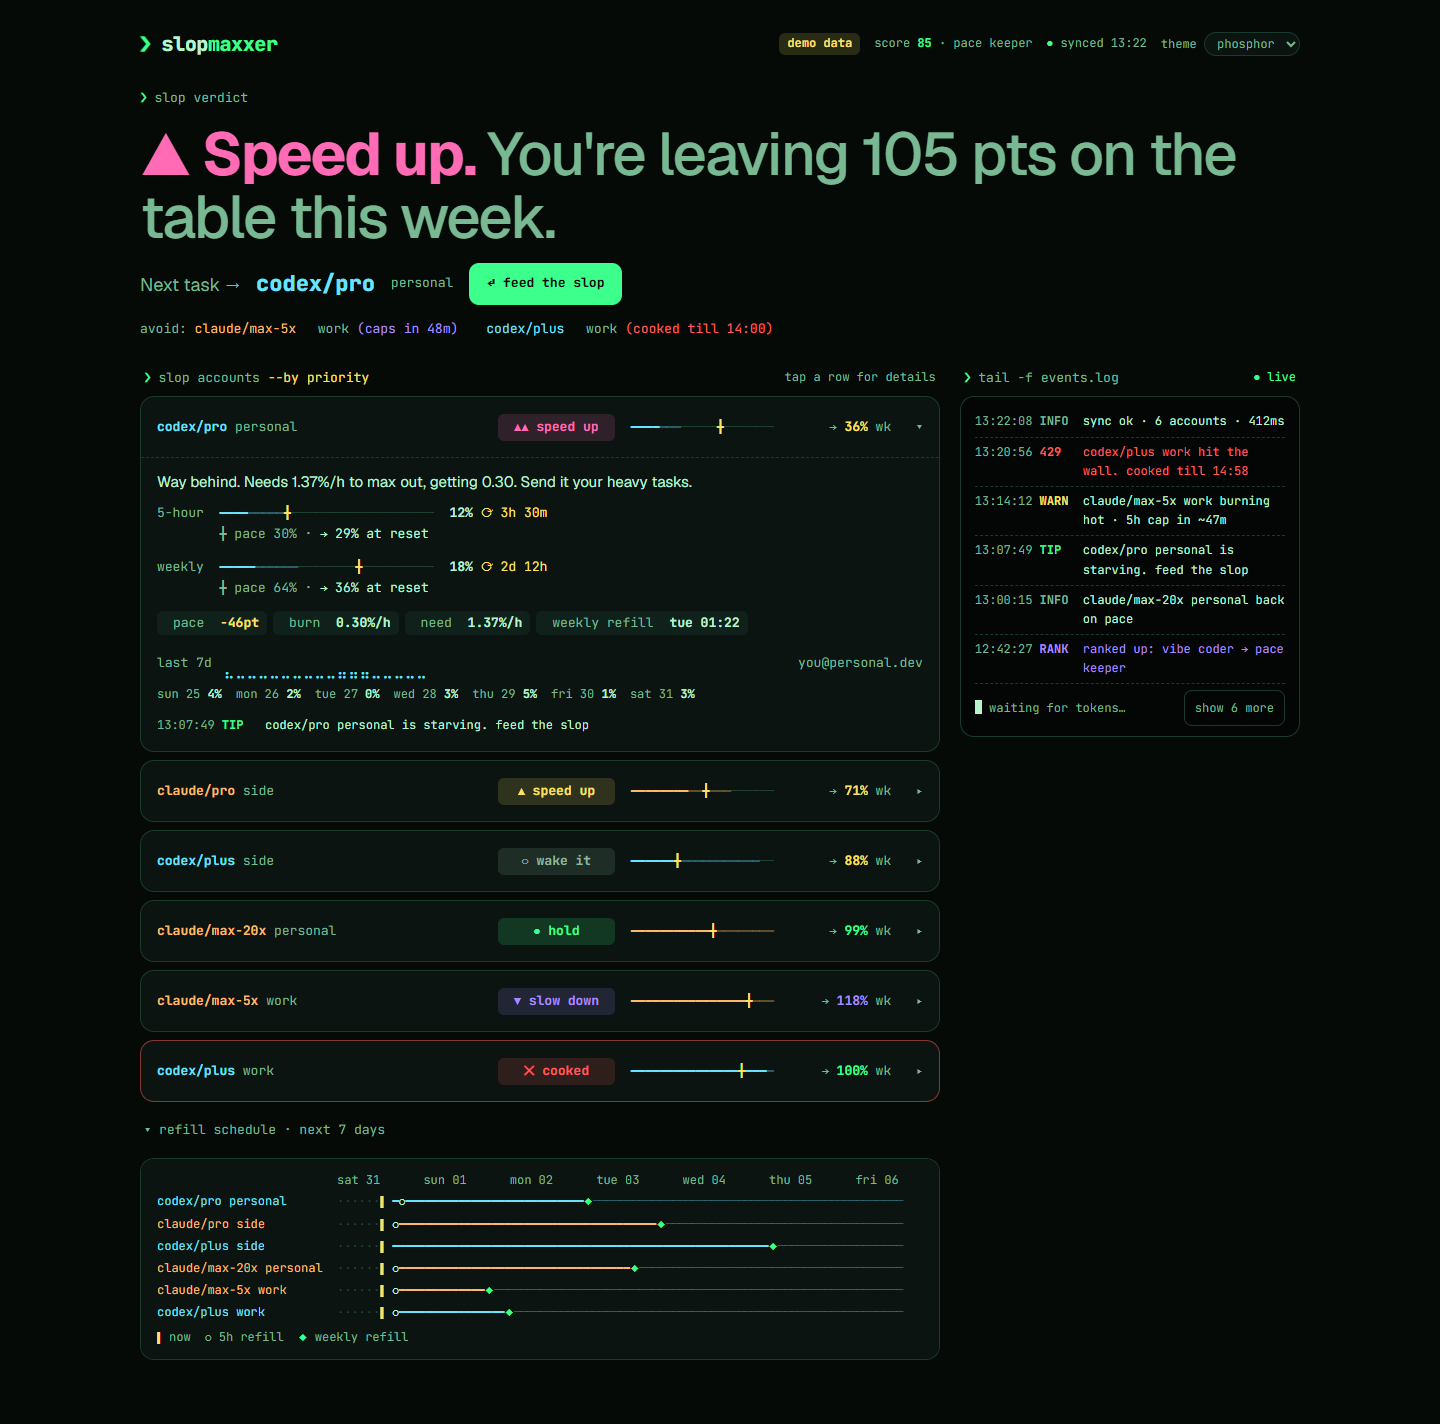
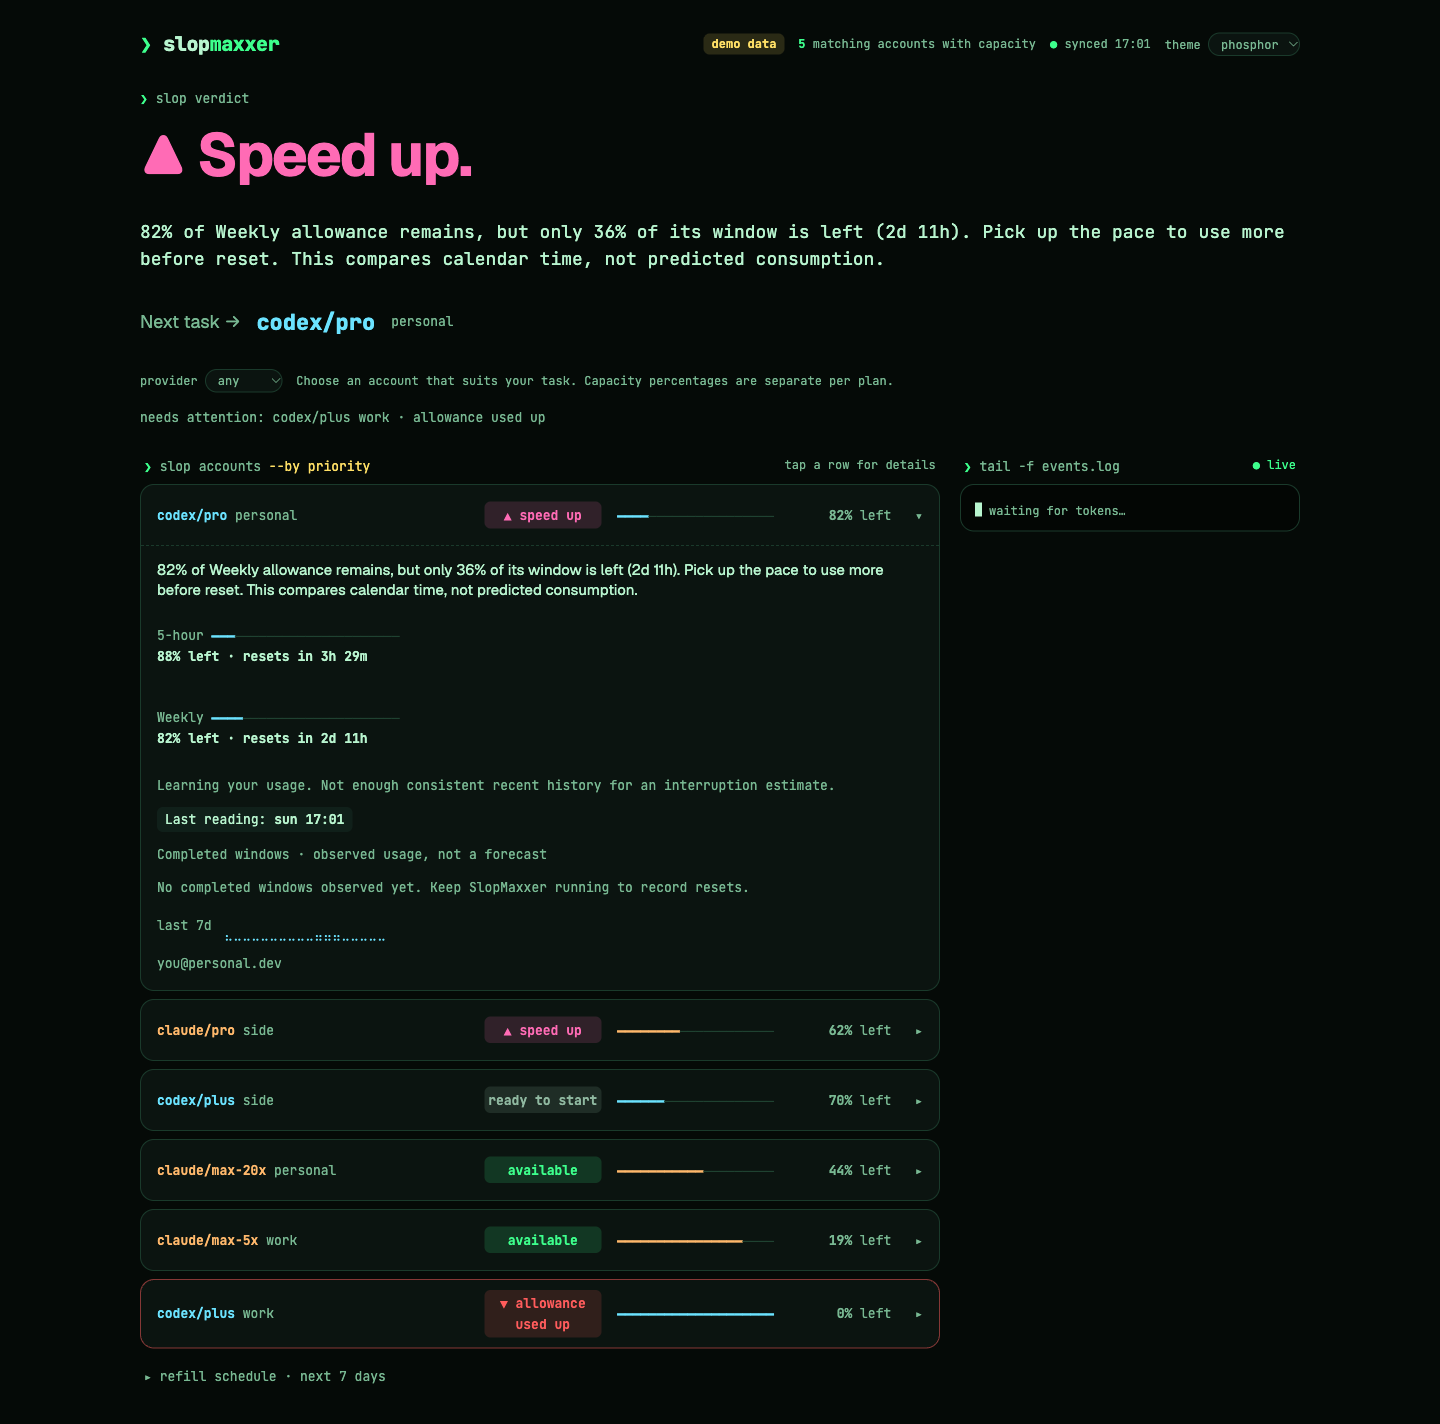
fix(dashboard): quieter meters for screen readers, one learning line
Screen readers read the meter glyphs ("━━━━────") as part of each
account row's button name; they are now aria-hidden and the "% left"
text carries the meaning. The expanded account repeated "Learning your
usage..." under every limit; it now shows once when every window would
say it. Theme storage is wrapped in try/catch so blocked localStorage no
longer breaks the page. README screenshots are retaken from --demo, so
they no longer show the retired score-based design.

diff --git a/public/index.html b/public/index.html
@@ -112,7 +112,10 @@ import * as S from './slop.js';
 
 const THEMES = ['phosphor', 'tokyo', 'gruvbox', 'paper', 'synth', 'graphite'];
 const STALE_MS = 5 * 60_000;
-const state = { open: {}, sched: false, logAll: false, theme: localStorage.getItem('slop.theme') || 'phosphor', provider: 'any', previousId: null, data: null, fetchedAt: 0, err: null, toast: '' };
+// Storage can be blocked (private mode, site data off); the theme is a convenience, never a reason to fail.
+function readTheme() { try { return localStorage.getItem('slop.theme') || 'phosphor'; } catch { return 'phosphor'; } }
+function saveTheme(t) { try { localStorage.setItem('slop.theme', t); } catch {} }
+const state = { open: {}, sched: false, logAll: false, theme: readTheme(), provider: 'any', previousId: null, data: null, fetchedAt: 0, err: null, toast: '' };
 const favicon = document.getElementById('favicon');
 let faviconSvg = null; // the SVG file, recoloured to the theme's prompt colour once loaded
 let faviconColor = '';
@@ -151,13 +154,17 @@ const runs = (rs, a) => rs.map((r) => {
 
 const logLine = (e) => { const c = LEVEL[e.level] || LEVEL.INFO; return `<div class="logline"><span class="muted">${fmt.hm(e.ts)}</span><span class="${c[0]}" style="font-weight:700">${esc(e.level)}</span><span class="${c[1]}">${esc(e.msg)}</span></div>`; };
 
-function meterBlock(label, w, a) {
-  const bar = runs(S.meterGlyphs(w, 24), a);
+// The "still learning" forecast; shown once per account when every window would repeat it.
+const LEARNING = S.forecastSummary({ fresh: true, known: true });
+
+function meterBlock(label, w, a, hideLearning) {
+  const bar = `<span aria-hidden="true">${runs(S.meterGlyphs(w, 24), a)}</span>`;
+  const forecast = S.forecastSummary(w);
   const outlook = w.fresh && !w.expired && w.outlook?.confidence === 'limited'
     ? `<div class="muted">Weekly demand estimate: ${w.outlook.low}–${w.outlook.high}% at reset, based on ${w.outlook.days} well-observed days. Limited confidence; this is not a reason to stop.</div>` : '';
   return `<div class="meter"><div><span class="muted">${esc(label)}</span> ${bar}</div>
     <div><b>${esc(S.windowSummary(w))}</b></div>
-    <div class="muted">${esc(S.forecastSummary(w))}</div>${outlook}</div>`;
+    ${hideLearning && forecast === LEARNING ? '' : `<div class="muted">${esc(forecast)}</div>`}${outlook}</div>`;
 }
 
 // Day i of the 7-day history (0 = six days ago, 6 = today), as "sat 25".
@@ -167,9 +174,11 @@ const dayBreakdown = (a) => (a.dailyPct || []).map((v, i) => `${dayName(i)} ${a.
 function details(a) {
   const maxDay = Math.max(20, ...(a.dailyPct || [0]));
   const completed = (a.completedWindows || []).slice(0, 4);
+  const allLearning = a.windows.length > 1 && a.windows.every(w => S.forecastSummary(w) === LEARNING);
   return `<div class="details" id="d-${a.id}">
     <div class="advice">${esc(a.reason)}</div>
-    ${a.windows.map(w => meterBlock(w.label, w, a)).join('')}
+    ${a.windows.map(w => meterBlock(w.label, w, a, allLearning)).join('')}
+    ${allLearning ? `<div class="muted">${esc(LEARNING)}</div>` : ''}
     <div class="stats">
       <span>Last reading: <b>${a.observedAt ? esc(fmt.dayTime(a.observedAt)) : 'unknown'}</b></span>
       ${a.resetCredits != null ? `<span>Reset credits: <b>${a.resetCredits}</b> · not assumed redeemed</span>` : ''}
@@ -205,7 +214,7 @@ function render() {
         <button class="row" type="button" data-toggle="${a.id}" aria-expanded="${open}" aria-controls="d-${a.id}">
           <span class="name"><strong style="color:${pvar(a)}">${esc(a.slug)}</strong>${a.label ? ` <span class="muted">${esc(a.label)}</span>` : ''}</span>
           <span class="chip" style="color:${tone(a.tone)};background:${tint(tone(a.tone), 15)}">${a.status === 'expiring' ? '▲▲ ' : a.status === 'underused' ? '▲ ' : ['limited', 'blocked'].includes(a.status) ? '▼ ' : ''}${a.action}</span>
-          <span class="pre">${runs(S.meterGlyphs(w, 20), a)}</span>
+          <span class="pre" aria-hidden="true">${runs(S.meterGlyphs(w, 20), a)}</span>
           <span class="pred" title="${esc(w.label || 'Applicable limits')}">${a.headroom != null ? `<b>${Math.round(a.headroom)}%</b> left` : 'unknown'}</span>
           <span class="chev" aria-hidden="true">${open ? '▾' : '▸'}</span>
         </button>${open ? details(a) : ''}
@@ -333,7 +342,7 @@ document.addEventListener('click', async (e) => {
 });
 document.addEventListener('change', (e) => {
   if (e.target.id === 'provider') { state[e.target.id] = e.target.value; state.previousId = null; render(); }
-  if (e.target.id === 'theme') { state.theme = e.target.value; localStorage.setItem('slop.theme', state.theme); render(); }
+  if (e.target.id === 'theme') { state.theme = e.target.value; saveTheme(state.theme); render(); }
 });
 
 load();

diff --git a/README.md b/README.md
@@ -87,8 +87,6 @@ No setup. No accounts to add. No API keys. It just reads what's already there.
 | **History and events** | Daily usage, observed availability changes, and reset confirmations |
 | **Six themes** | phosphor, tokyo, gruvbox, paper, synth, graphite |
 
-The screenshots below show the earlier score-based design; current guidance uses availability and reset opportunities.
-
 <div align="center">
 <img src="docs/theme-synth.png" alt="synth theme" width="49%"> <img src="docs/theme-tokyo.png" alt="tokyo theme" width="49%">
 <img src="docs/theme-gruvbox.png" alt="gruvbox theme" width="49%"> <img src="docs/theme-paper.png" alt="paper theme" width="49%">
